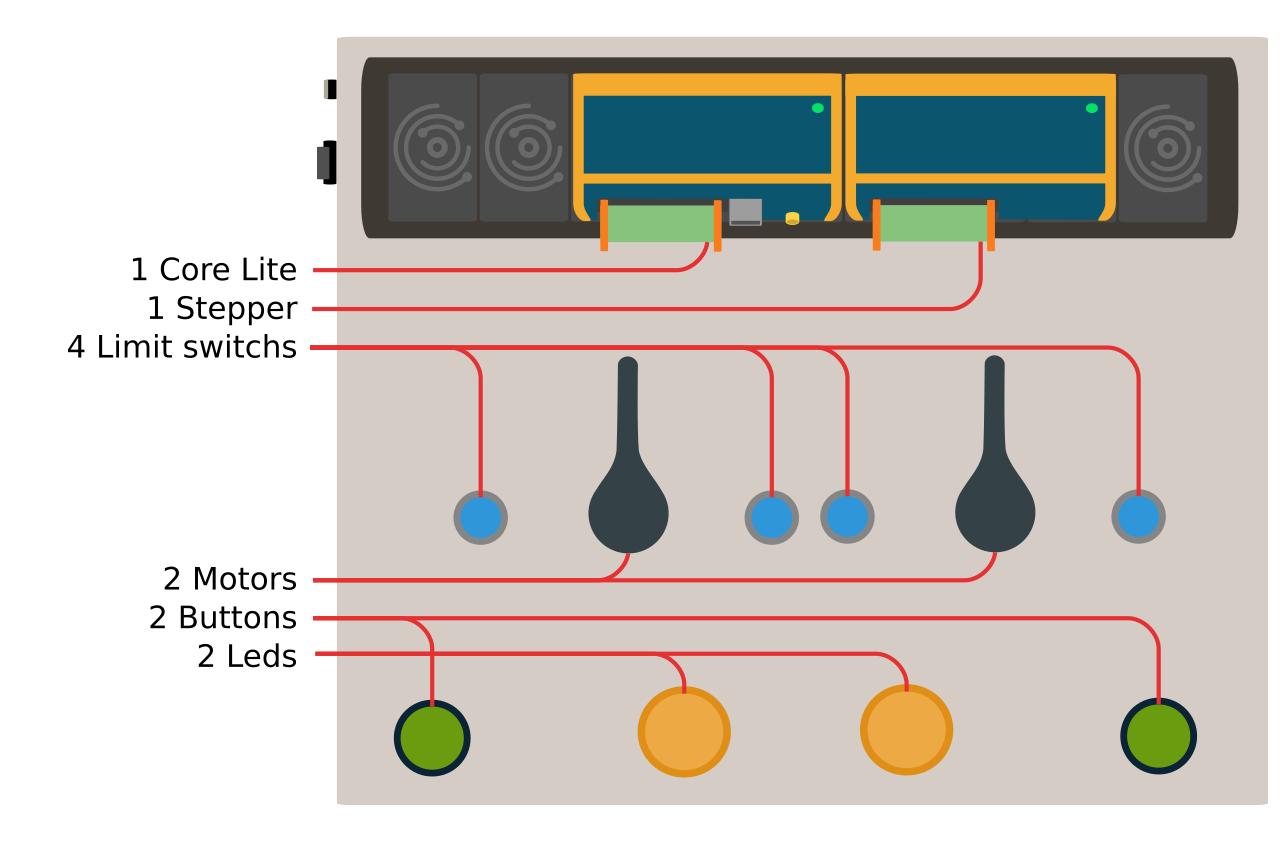
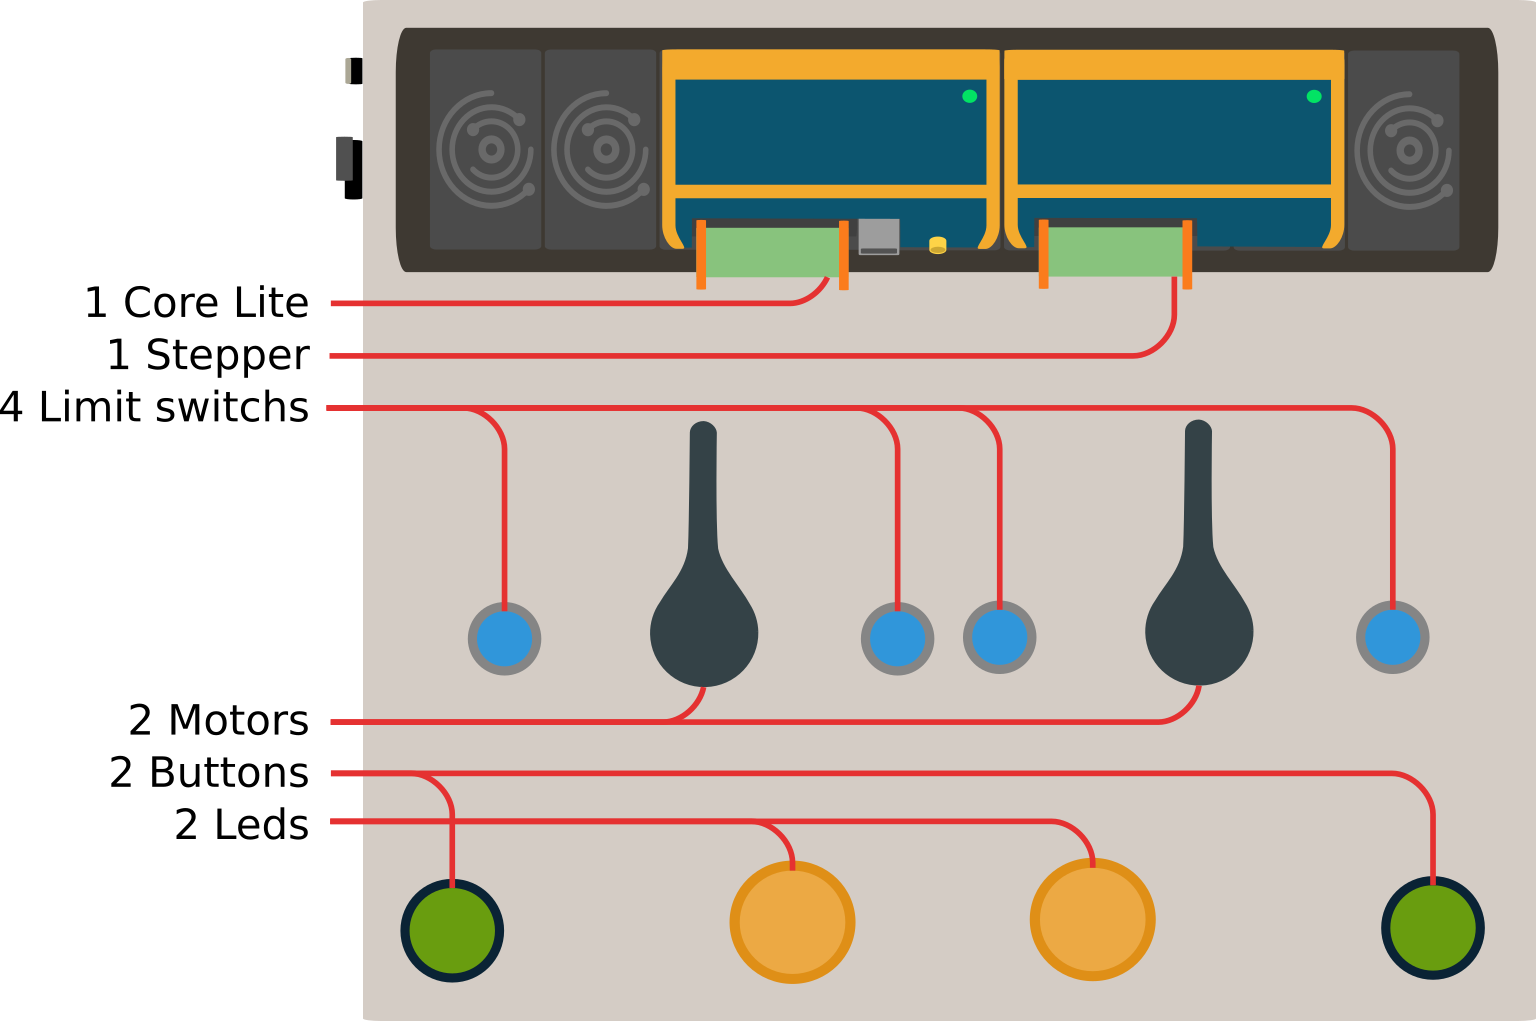
update motor kit

diff --git a/docs/source/projects/oidemo_motor.rst b/docs/source/projects/oidemo_motor.rst
@@ -1,7 +1,7 @@
-.. _OI-DEMO Motors:
+.. _Demo Motors Kit:
 
-OI-DEMO Motor
-=============
+Demo Motors Kit
+===============
 
 1. Introduction
 ---------------
@@ -34,7 +34,7 @@ What will you learn?
 ------------
 
 2. Discover your kit
-----------------
+--------------------
 
 The Demo Motor kit includes two stepper motors, each with a home and end limit switch.
 It also includes two output LEDs and buttons to test the digital I/O features of the OI-Core master module.
@@ -43,22 +43,29 @@ It also includes two output LEDs and buttons to test the digital I/O features of
     :width: 70%
     :align: center
 
-
-
+|
 
 Download and install the Android app
 ~~~~~~~~~~~~~~~~~~~~~~~~~~~~~~~~~~~~~
 
 Before writing any code, use the **OpenIndus Demo** Android application to familiarize yourself with the default kit firmware.
 
-
 Scan the QR code below or follow the link to install the app:
 
-.. image:: ../_static/androi_app_link.png
+.. figure:: ../_static/androi_app_link.png
    :width: 200px
    :align: center
+   :alt: OpenIndus Demo app QR code
+   :target: https://play.google.com/store/apps/details?id=com.openindus.oidemo
 
-`OpenIndus Demo on Google Play <https://play.google.com/store/apps/details?id=com.openindus.oidemo>`_
+   `OpenIndus Demo on Google Play <https://play.google.com/store/apps/details?id=com.openindus.oidemo>`_
+
+.. note::
+    The **OpenIndus Demo** app requires **Bluetooth permissions** to be granted on your Android device.
+    Without these permissions, the app cannot connect to the Demo Motors kit. The Bluetooth module
+    on the kit remains inactive during the motor initialization and homing sequence, and only becomes
+    available once the startup animation completes and the system enters interactive mode.
+    Currently, the app is **Android-only**; there is no iOS equivalent available at this time.
 
 Check basic features of the kit
 ~~~~~~~~~~~~~~~~~~~~~~~~~~~~~~~~~
@@ -66,9 +73,26 @@ Check basic features of the kit
 Once the app is installed and connected to the kit via Bluetooth, you can play with the following
 features work correctly before programming:
 
-* **LEDs** - the two output LEDs (left and right) light up when the corresponding motor is running
+* **LEDs** - the two output LEDs (left and right) blink when the corresponding motor is running
 * **Buttons** - pressing the left and right buttons makes the corresponding motor run, and releasing them stops it
 * **Bluetooth** - the app show the motors position in real time and you can change the motor speed with the sliders
+
+Wiring diagram
+~~~~~~~~~~~~~~
+Theses electical diagrams show how the Core and Stepper modules are connected to the different components of the kit.
+
+By following the connections you can see which pins are used for what purpose. Theses pins will be used in the code later on
+to reference each element of the kit.
+
+.. image:: ../_static/electrotech_motor_1.png
+    :width: 95%
+    :align: center
+    :alt: Demo Motor wiring diagram - page 1
+
+.. image:: ../_static/electrotech_motor_2.png
+    :width: 95%
+    :align: center
+    :alt: Demo Motor wiring diagram - page 2
 
 ------------
 
@@ -87,13 +111,28 @@ workspace if you have not done so yet.
 Introduction to OpenIndus modules programming
 ~~~~~~~~~~~~~~~~~~~~~~~~~~~~~~~~~~~~~~~~~~~~~
 
+Once the extension installed and your workspace set up, you can start writing code for the Demo Motor kit.
+
+In the extension launch **"Start a new project"**
+
+ * select OI Core Lite
+ * select the parent folder of the project
+ * enter the project name (eg: OpenIndus_Demo_Kit)
+ * select **"Master"** as the device type
+ * choose to use Arduino libraries
+ * select the last version available of the OpenIndus library
+
+.. note::
+    In the newly created project, we are going to edit the ``main/main.cpp`` file to implement the motor control logic.
+    All code examples in this section are excerpts from ``main/main.cpp``. The full source code is available at the end of this page.
+
 The OI-Demo Motor kit uses two OpenIndus modules on a shared OI-Rail bus:
 
 * :ref:`OI-Core<OI-Core>` - the master controller that manages digital I/O and orchestrates the system
 * :ref:`OI-Stepper<oi-stepper>` - the stepper motor driver module
 
 In code, each module is declared as a global object. The OpenIndus extension can generate these
-declarations automatically by scanning the OI-Rail:
+declarations automatically by scanning the OI-Rail.
 
 .. code-block:: cpp
 
@@ -129,75 +168,6 @@ identifiers throughout the program, declare them once at the top:
     const DIn_Num_t RIGHT_MOTOR_HOME_SWITCH = DIN_1;
     const DIn_Num_t RIGHT_MOTOR_END_SWITCH  = DIN_2;
 
-Configure and drive a motor with OpenIndus modules
-~~~~~~~~~~~~~~~~~~~~~~~~~~~~~~~~~~~~~~~~~~~~~~~~~~
-
-The PowerSTEP01 stepper driver used by OI-Stepper exposes many parameters that must be tuned
-to match your specific motor and load. The key parameters are:
-
-.. list-table::
-   :header-rows: 1
-   :widths: 25 15 60
-
-   * - Parameter
-     - Example value
-     - Description
-   * - ``VM_KVAL_RUN``
-     - 6
-     - Motor voltage during run phase (affects torque and heating)
-   * - ``VM_KVAL_HOLD``
-     - 6
-     - Motor voltage while holding position
-   * - ``VM_KVAL_ACC``
-     - 6
-     - Motor voltage during acceleration
-   * - ``VM_KVAL_DEC``
-     - 6
-     - Motor voltage during deceleration
-   * - ``VM_INT_SPEED``
-     - 240
-     - Speed threshold between low-speed and high-speed modes
-   * - ``VM_ST_SLP``
-     - 0.0200
-     - BEMF compensation slope at low speed
-   * - ``VM_FN_SLP_ACC``
-     - 0.0620
-     - BEMF compensation slope at high speed (acceleration)
-   * - ``STEP_MODE_STEP_SEL``
-     - ``STEP_1_16``
-     - Microstepping resolution (1/16 step)
-
-.. note::
-    The right values depend on your motor's electrical characteristics and the mechanical load.
-    Start with conservative (low) KVAL values to avoid overheating, then increase them until
-    you get the torque you need.
-
-Parameters are applied with ``stepper1.setAdvancedParam()``:
-
-.. code-block:: cpp
-
-    float kvalRun  = 6;
-    float kvalHold = 6;
-    float kvalDec  = 6;
-    float kvalAcc  = 6;
-    float intSpeed = 240;
-    float stSlope  = 0.0200;
-    float fnSlope  = 0.0620;
-    uint8_t stepMode = STEP_1_16;
-
-    stepper1.setAdvancedParam(MOTOR_RIGHT, VM_KVAL_RUN,        &kvalRun);
-    stepper1.setAdvancedParam(MOTOR_RIGHT, VM_KVAL_HOLD,       &kvalHold);
-    stepper1.setAdvancedParam(MOTOR_RIGHT, VM_KVAL_ACC,        &kvalAcc);
-    stepper1.setAdvancedParam(MOTOR_RIGHT, VM_KVAL_DEC,        &kvalDec);
-    stepper1.setAdvancedParam(MOTOR_RIGHT, VM_INT_SPEED,       &intSpeed);
-    stepper1.setAdvancedParam(MOTOR_RIGHT, VM_ST_SLP,          &stSlope);
-    stepper1.setAdvancedParam(MOTOR_RIGHT, VM_FN_SLP_ACC,      &fnSlope);
-    stepper1.setAdvancedParam(MOTOR_RIGHT, VM_FN_SLP_DEC,      &fnSlope);
-    stepper1.setAdvancedParam(MOTOR_RIGHT, STEP_MODE_STEP_SEL, &stepMode);
-
-The same block must be repeated for ``MOTOR_LEFT``. Both motors always use identical parameters
-in this demo.
-
 Complete example project
 ~~~~~~~~~~~~~~~~~~~~~~~~~
 
@@ -207,7 +177,7 @@ Project structure
 The project is organized around three logical phases executed in sequence:
 
 1. **Initialization** - motor parameters, LED tasks, homing sequence, and startup animation
-2. **Interactive control** - the 3-position switch drives the motors in real time
+2. **Interactive control** - the buttons drives the motors by triggering an interrupt on every state change
 3. **Interrupt / event handling** - a lightweight ISR sets a flag; the main loop acts on it
 
 .. list-table::

diff --git a/docs/source/projects/index.rst b/docs/source/projects/index.rst
@@ -3,14 +3,15 @@
 Projects
 ========
 
+.. toctree::
+   :maxdepth: 1
+   :hidden:
+
+   oidemo_io.rst
+   oidemo_motor.rst
+
 Quick overview
 --------------
 
 - :doc:`oidemo_io` — Input/output demo with sensors, display, analog reads, PWM outputs, and task/interrupt handling.
 - :doc:`oidemo_motor` — Motor control demo with homing, limit switches, and stepper motion sequences.
-
-.. toctree::
-   :maxdepth: 1
-
-   oidemo_io.rst
-   oidemo_motor.rst

diff --git a/docs/source/projects/oidemo_io.rst b/docs/source/projects/oidemo_io.rst
@@ -1,7 +1,7 @@
-.. _OI-DEMO Input-Output:
+.. _Demo Input-Output Kit:
 
-OI-DEMO Input/Output
-====================
+Demo Input/Output Kit
+=====================
 
 .. warning::
     This section is obsolete, we will update it shortly for version 2.X.X.
